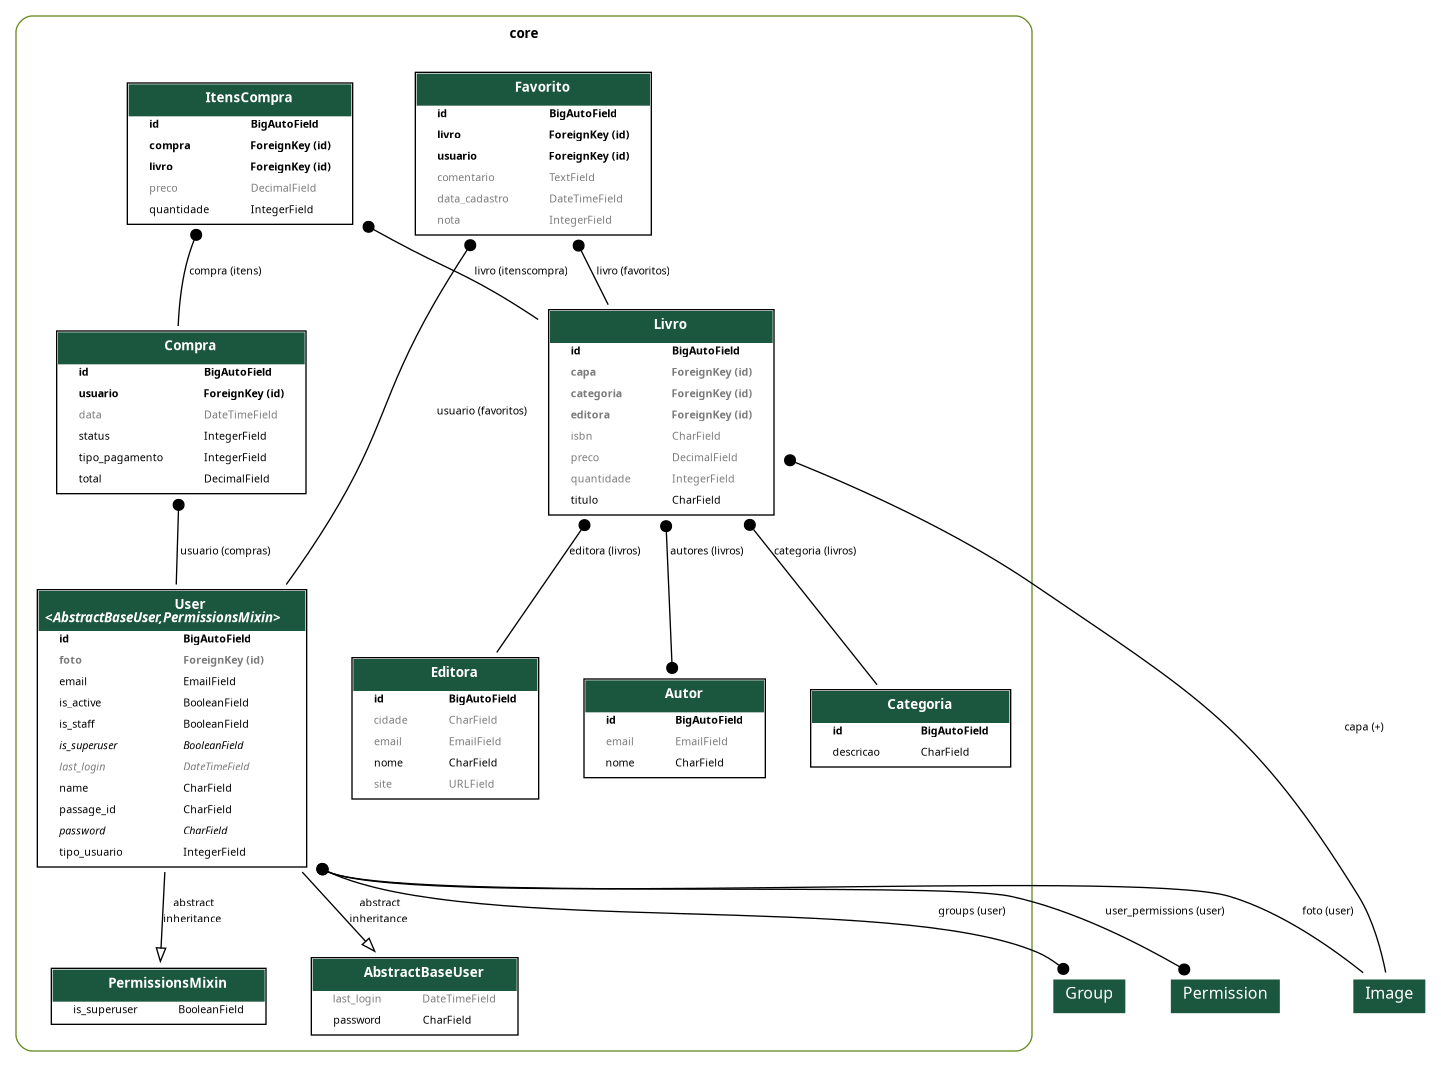
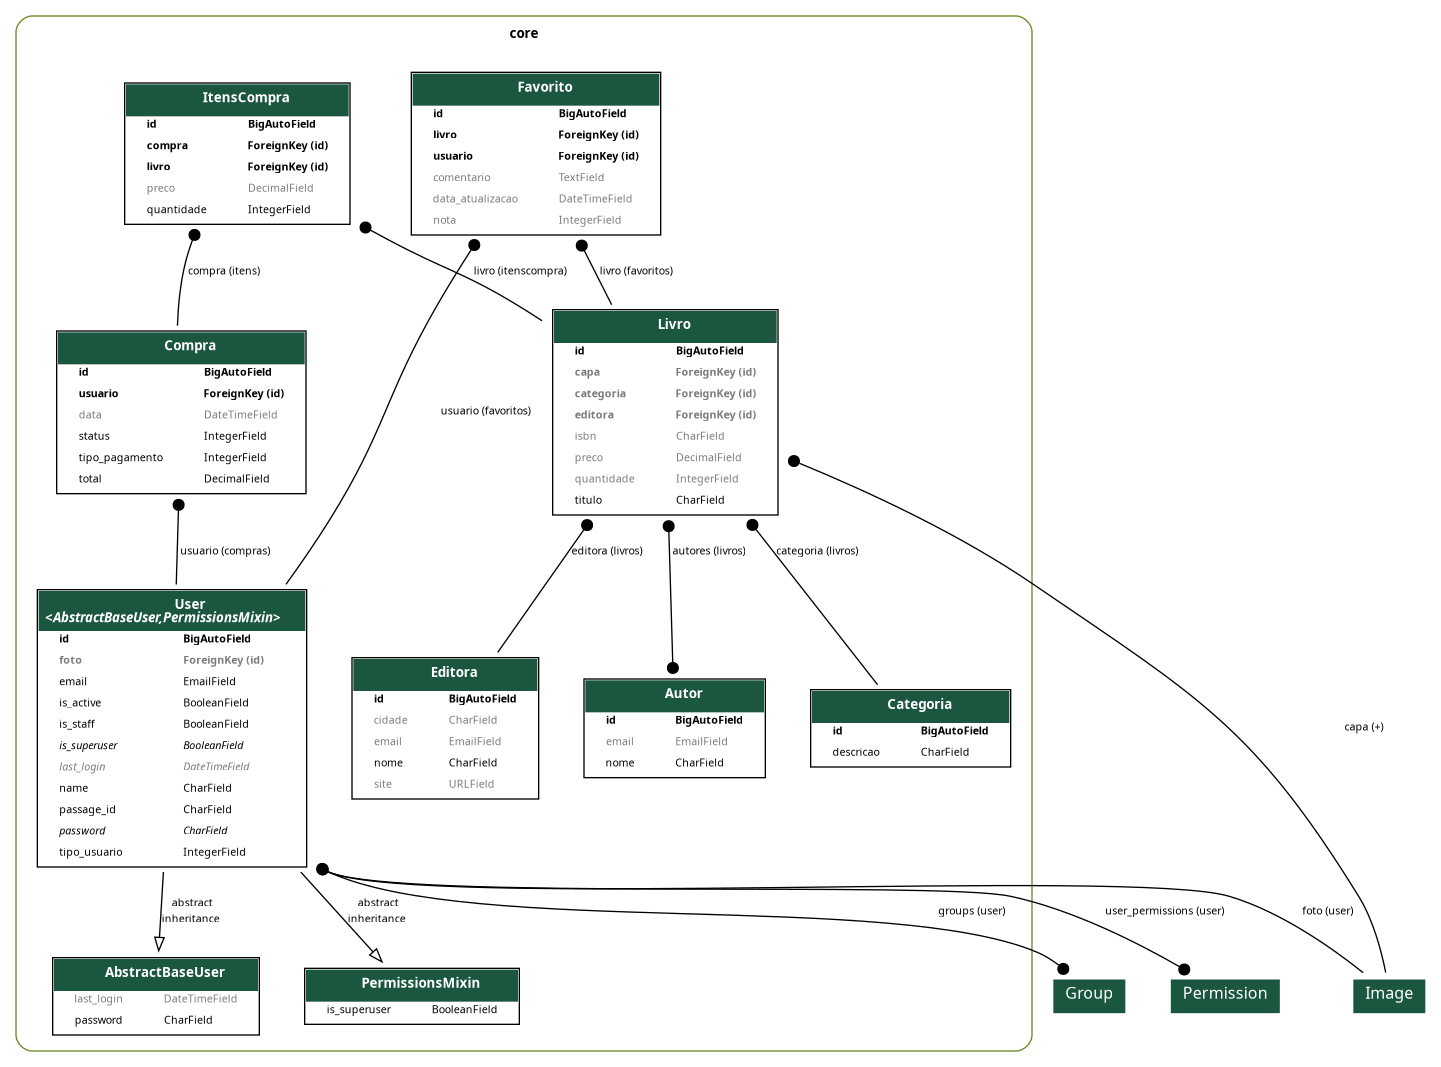
refactor: altera data_cadastro para data_atualizacao no modelo Favorito

diff --git a/core/models/favorito.py b/core/models/favorito.py
@@ -8,7 +8,7 @@ from .user import User
 class Favorito(models.Model):
     usuario = models.ForeignKey(User, on_delete=models.CASCADE, related_name="favoritos")
     livro = models.ForeignKey(Livro, on_delete=models.CASCADE, related_name="favoritos")
-    data_cadastro = models.DateTimeField(auto_now_add=True)
+    data_atualizacao = models.DateTimeField(auto_now=True)
     nota = models.IntegerField(
         validators=[MinValueValidator(1), MaxValueValidator(5)],
         null=True,
@@ -17,7 +17,7 @@ class Favorito(models.Model):
     comentario = models.TextField(null=True, blank=True)
 
     class Meta:
-        ordering = ["-data_cadastro"]
+        ordering = ["-data_atualizacao"]
         unique_together = ["usuario", "livro"]  # Impede duplicatas de favoritos
 
     def __str__(self):

diff --git a/core/migrations/0032_alter_favorito_options_remove_favorito_data_cadastro_and_more.py b/core/migrations/0032_alter_favorito_options_remove_favorito_data_cadastro_and_more.py
@@ -1,0 +1,26 @@
+# Generated by Django 5.1.3 on 2025-02-10 17:28
+
+from django.db import migrations, models
+
+
+class Migration(migrations.Migration):
+
+    dependencies = [
+        ("core", "0031_favorito"),
+    ]
+
+    operations = [
+        migrations.AlterModelOptions(
+            name="favorito",
+            options={"ordering": ["-data_atualizacao"]},
+        ),
+        migrations.RemoveField(
+            model_name="favorito",
+            name="data_cadastro",
+        ),
+        migrations.AddField(
+            model_name="favorito",
+            name="data_atualizacao",
+            field=models.DateTimeField(auto_now=True),
+        ),
+    ]

diff --git a/core/admin.py b/core/admin.py
@@ -112,9 +112,9 @@ class CompraAdmin(admin.ModelAdmin):
 
 @admin.register(Favorito)
 class FavoritoAdmin(admin.ModelAdmin):
-    list_display = ("usuario", "livro", "nota", "data_cadastro")
+    list_display = ("usuario", "livro", "nota", "data_atualizacao")
     search_fields = ("usuario__email", "livro__titulo", "comentario")
-    list_filter = ("nota", "data_cadastro")
-    ordering = ("-data_cadastro",)
+    list_filter = ("nota", "data_atualizacao")
+    ordering = ("-data_atualizacao",)
     list_per_page = 25
-    readonly_fields = ("data_cadastro",)
+    readonly_fields = ("data_atualizacao",)
